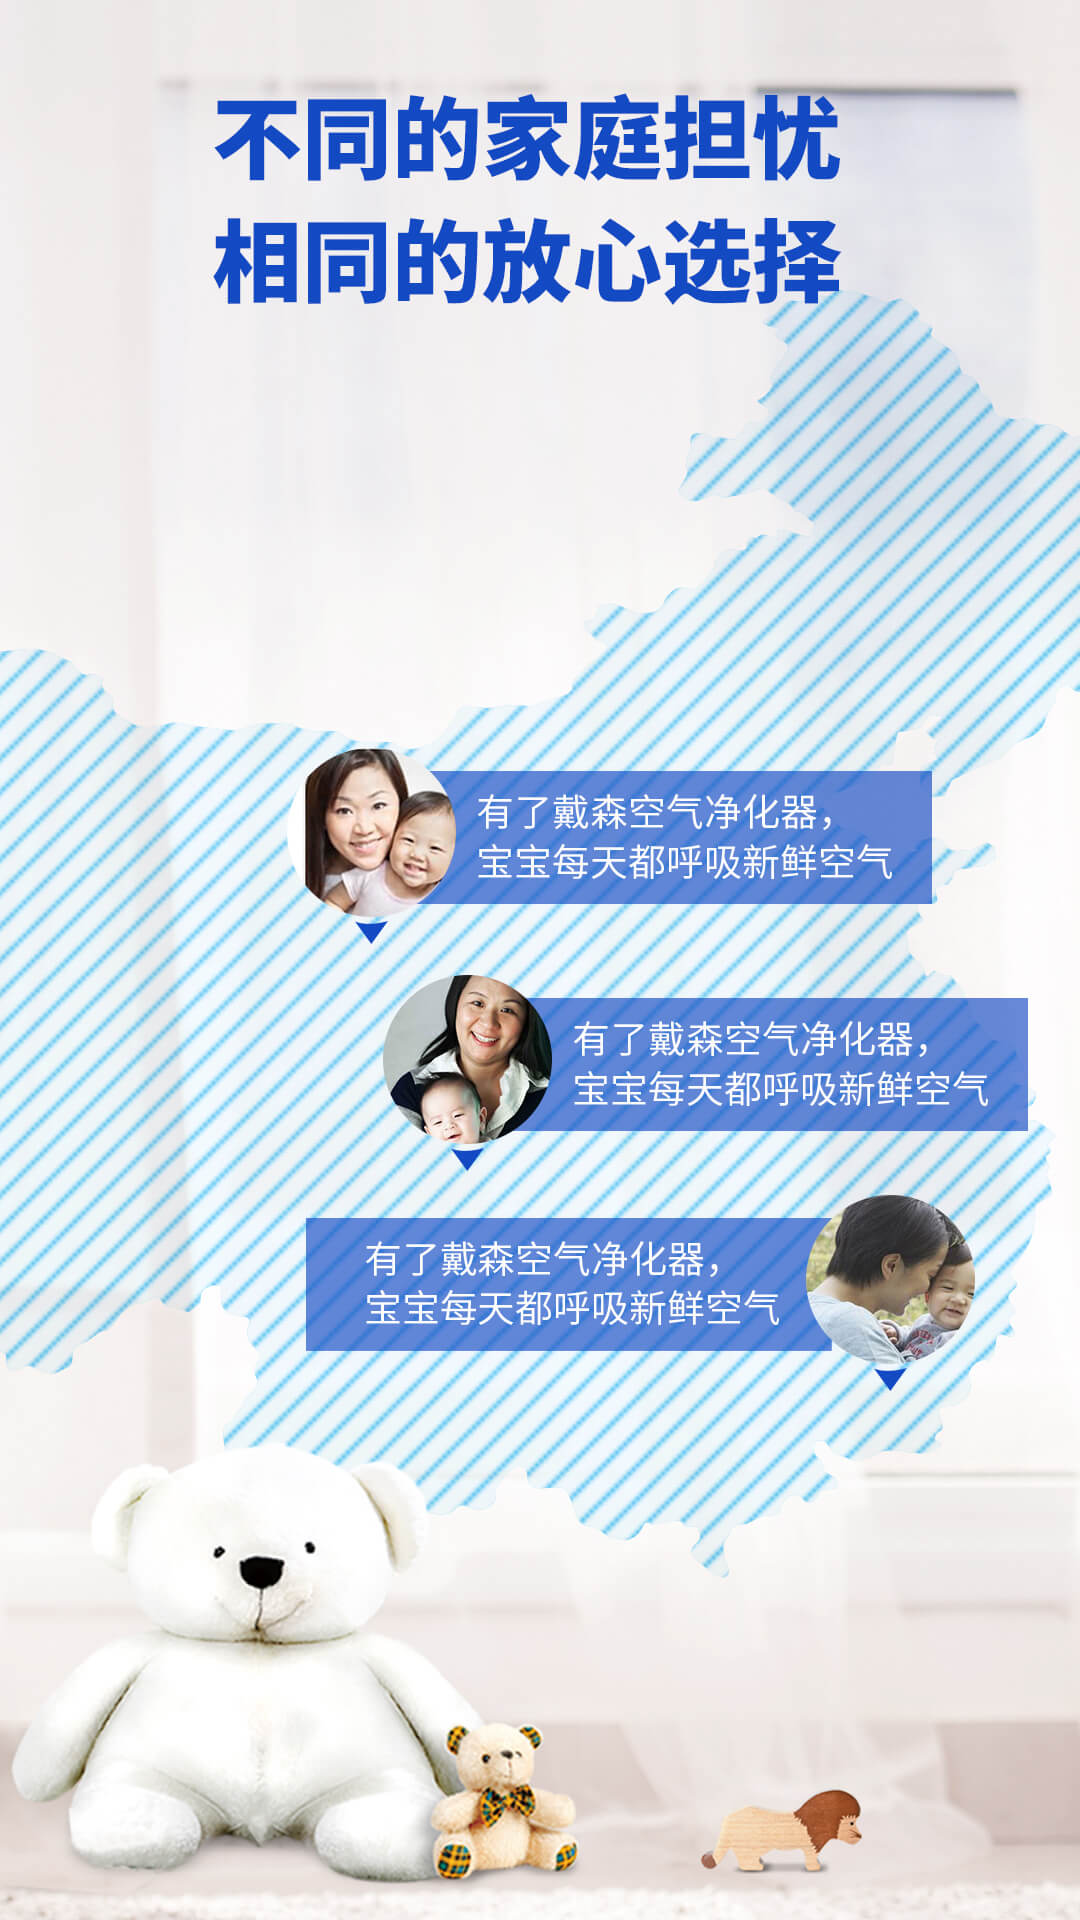
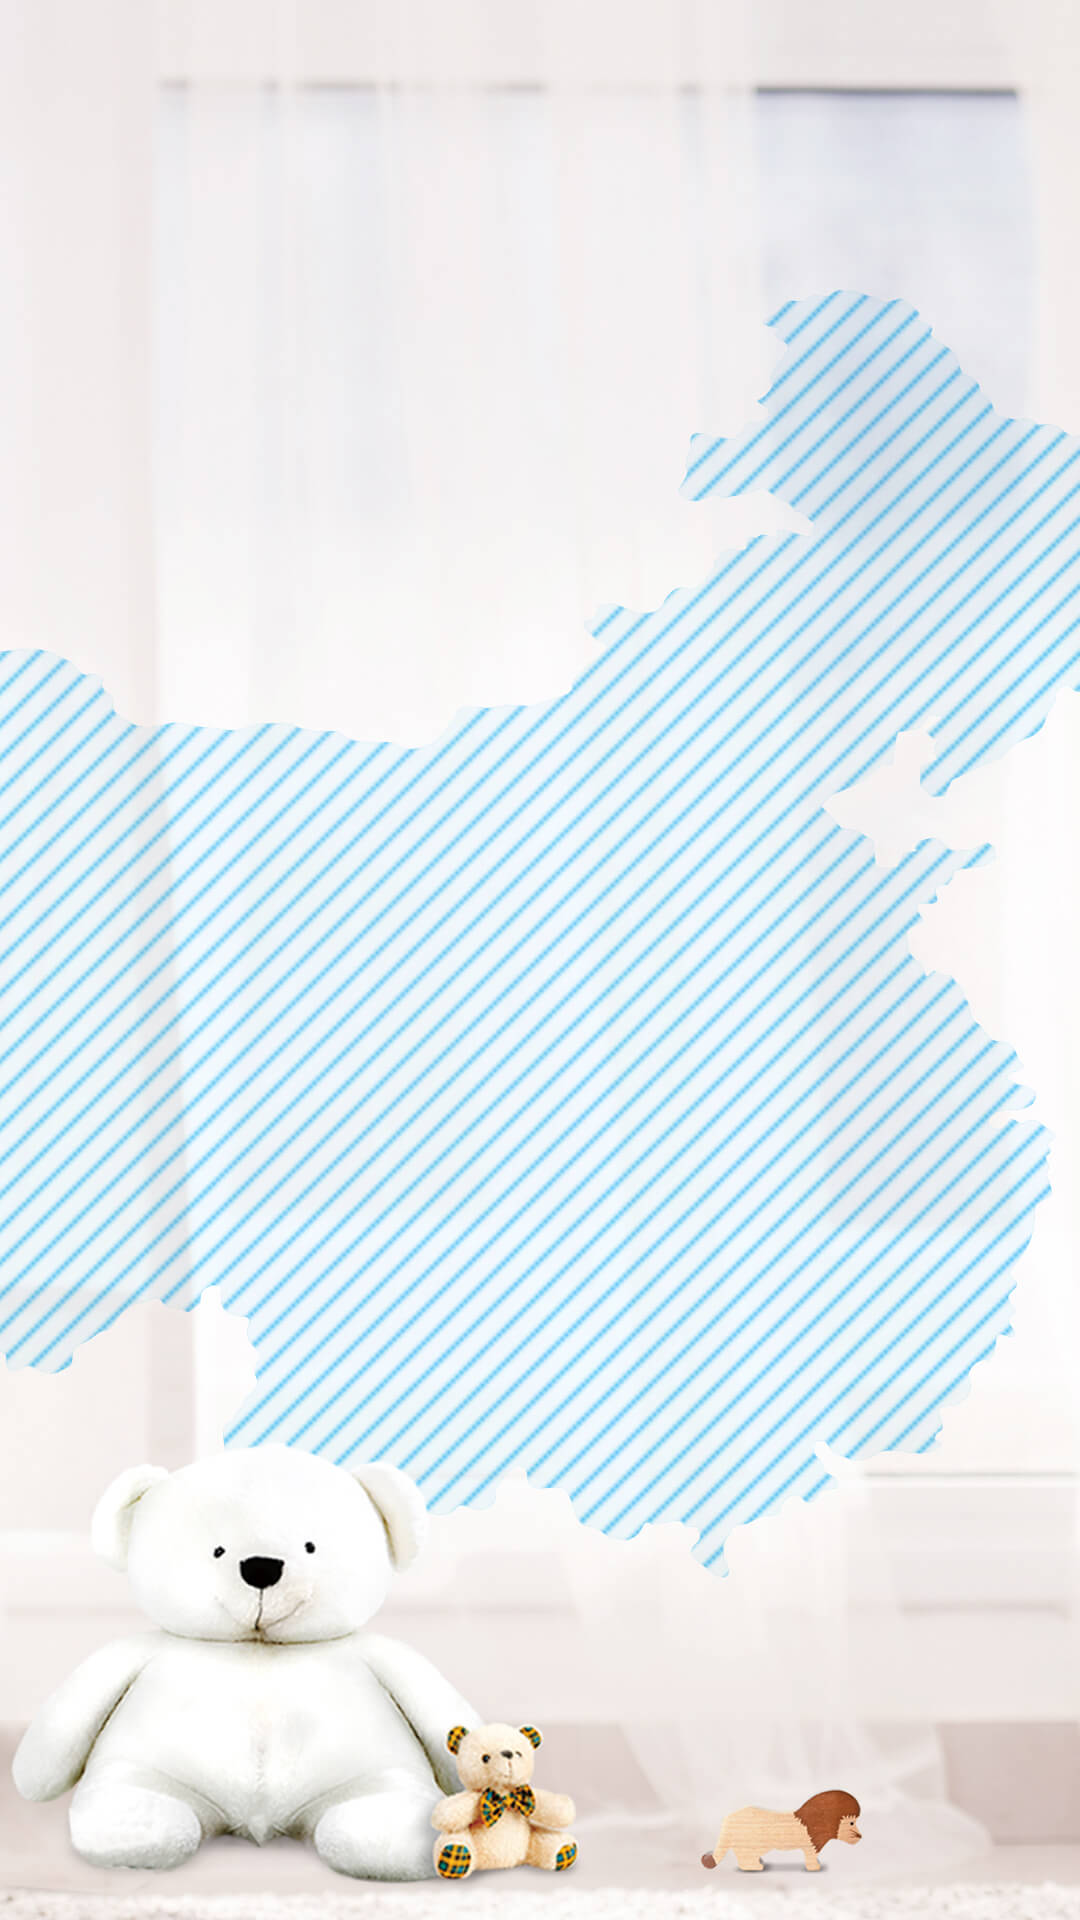
commit

Changed region(s): [[0.275, 0.5, 0.9778, 0.7188], [0.1833, 0.0312, 0.7944, 0.1562], [0.275, 0.375, 0.8861, 0.5]]

diff --git a/src/components/pageTwo.vue b/src/components/pageTwo.vue
@@ -1,5 +1,8 @@
 <template>
   <div class="pageTwo">
+		<img src="./f1.png" class="f1">
+		<img src="./f2.png" class="f2">
+		<img src="./2-bottom.png" class="bottom">
 		<div class="box1" @click="jump(1)"></div>
 		<div class="box2" @click="jump(2)"></div>
 		<div class="box3" @click="jump(3)"></div>
@@ -25,44 +28,64 @@ export default {
 .pageTwo{
 	position: relative;
 	display: flex;
-	// height: 100%;
-	// width: 100%;
-  // height: 100%;
-	// min-height: 9.8rem;
-  // max-height: 11.5rem;
-  // max-width: 6.4rem;
 	width: 100vw;
 	height: 100vh;
-	background: url('2.jpg') center center no-repeat;
+	background: url('3.jpg') top center no-repeat;
 	background-size: cover;
 	overflow: hidden;
+	img.f1{
+		display: inline-block;
+		position: absolute;
+		width: 48vw;
+		left: 26vw;
+		top: 4vh;
+	}
+	img.f2{
+		display: inline-block;
+		position: absolute;
+		width: 78vw;
+		left: 11vw;
+		top: 20vh;
+	}
+	img.bottom{
+		display: inline-block;
+		position: absolute;
+		width: 96vw;
+		bottom: 1.5%;
+		z-index: 1;
+		left: 2vw;
+	}
 	.box1{
 		position: absolute;
-		top: 35%;
+		bottom: 35%;
 		left: 0;
 		width: 53%;
 		height: 29%;
+		z-index: 2;
 	}
 	.box2{
 		position: absolute;
-		top: 35%;
+		bottom: 35%;
     right: 0;
     width: 45%;
     height: 29%;
+		z-index: 2;
 	}
 	.box3{
 		position: absolute;
-		top: 35%;
+		bottom: 5%;
 		left: 0;
 		width: 43%;
-		height: 29%;
+		height: 31%;
+		z-index: 2;
 	}
 	.box4{
 		position: absolute;
-		top: 64%;
+		bottom: 5%;
     right: 0;
     width: 55%;
-    height: 30%;
+    height: 31%;
+		z-index: 2;
 	}
 }
 </style>

diff --git a/src/components/pageFour.vue b/src/components/pageFour.vue
@@ -1,5 +1,10 @@
 <template>
-  <div class="pageFour"></div>
+  <div class="pageFour">
+		<img src="./f3.png" class="f3">
+		<img src="./m1.png" class="m1">
+		<img src="./m2.png" class="m2">
+		<img src="./m3.png" class="m3">
+	</div>
 </template>
 
 <script type="text/ecmascript-6">
@@ -12,16 +17,51 @@ export default {
 .pageFour{
 	position: relative;
 	display: flex;
-	// height: 100%;
-	// width: 100%;
-  // height: 100%;
-	// min-height: 9.8rem;
-  // max-height: 11.5rem;
-  // max-width: 6.4rem;
 	width: 100vw;
 	height: 100vh;
 	background: url('4.jpg') center center no-repeat;
 	background-size: cover;
 	overflow: hidden;
+	img.f3{
+		display: inline-block;
+		position: absolute;
+		width: 58vw;
+		left: 17.75vw;
+		top: 5%;
+	}
+	img.m1{
+		display: inline-block;
+		position: absolute;
+		width: 63vw;
+		left: 27%;
+    top: 63%;
+		opacity: 0;
+		animation:animation 5s infinite;
+		animation-delay:1.5s;
+	}
+	img.m2{
+		display: inline-block;
+		position: absolute;
+		width: 63vw;
+		left: 32%;
+    top: 50%;
+		opacity: 0;
+		animation:animation 5s infinite;
+		animation-delay:3s;
+	}
+	img.m3{
+		display: inline-block;
+		position: absolute;
+		width: 63vw;
+		left: 24%;
+    top: 37%;
+		animation:animation 5s infinite;
+	}
+	@keyframes animation
+	{
+		0% {opacity:0;}
+		50% {opacity:1;}
+		100% {opacity:0;}
+	}
 }
 </style>

diff --git a/src/components/pageThree.vue b/src/components/pageThree.vue
@@ -1,5 +1,6 @@
 <template>
   <div class="pageThree">
+		<img src="./3-bottom.png" width="100%">
 		<div class="box5" @click="jump(5)"></div>
 		<div class="box6" @click="jump(6)"></div>
 		<div class="box7" @click="jump(7)"></div>
@@ -24,23 +25,25 @@ export default {
 .pageThree{
 	position: relative;
 	display: flex;
-	// height: 100%;
-	// width: 100%;
-  // height: 100%;
-	// min-height: 9.8rem;
-  // max-height: 11.5rem;
-  // max-width: 6.4rem;
 	width: 100vw;
 	height: 100vh;
 	background: url('3.jpg') center center no-repeat;
 	background-size: cover;
 	overflow: hidden;
+	img{
+		display: inline-block;
+		position: absolute;
+		height: 100vh;
+		bottom: 2%;
+		z-index: 1;
+	}
 	.box5{
 		position: absolute;
 		top: 4%;
     left: 0;
     width: 100%;
     height: 30%;
+		z-index: 2;
 	}
 	.box6{
 		position: absolute;
@@ -48,6 +51,7 @@ export default {
     left: 0;
     width: 33%;
     height: 29%;
+		z-index: 2;
 	}
 	.box7{
 		position: absolute;
@@ -62,6 +66,7 @@ export default {
 		right: 0;
 		width: 33%;
 		height: 29%;
+		z-index: 2;
 	}
 	.box9{
 		position: absolute;
@@ -76,6 +81,7 @@ export default {
     right: 0;
     width: 63%;
     height: 30%;
+		z-index: 2;
 	}
 }
 </style>

diff --git a/src/components/pageOne.vue b/src/components/pageOne.vue
@@ -1,9 +1,10 @@
 <template>
   <div class="pageOne">
-		<video src="../../static/1.mp4" autoplay controls preload></video>
+		<img src="./1-top.jpg" width="100%">
+		<video src="../../static/1.mp4" controls preload poster="../../static/img/video-loadpic.png"></video>
+		<img src="./1-bottom.jpg" width="100%">
 	</div>
 </template>
-
 <script type="text/ecmascript-6">
 export default {
   name: 'pageOne'
@@ -14,22 +15,26 @@ export default {
 <style scoped lang="stylus" type="stylesheet/stylus">
 .pageOne{
 	position: relative;
-	// height: 100%;
-	// width: 100%;
-  // height: 100%;
-	// min-height: 9.8rem;
-  // max-height: 11.5rem;
-  // max-width: 6.4rem;
 	width: 100vw;
 	height: 100vh;
-	background: url('1.jpg') center center no-repeat;
-	background-size: cover;
 	overflow: hidden;
+	img{
+		position: absolute;
+		display:inline-block;
+		z-index: 1;
+		&:first-child{
+			top: 0;
+		}
+		&:last-child{
+			bottom: 0;
+		}
+	}
 	video{
+		display:inline-block;
 		top: 54%;
 		z-index: 2;
 		position: absolute;
-		width: 100%;
+		width: 100vw;
 	}
 }
 </style>

diff --git a/src/components/pageFive.vue b/src/components/pageFive.vue
@@ -1,5 +1,8 @@
 <template>
-  <div class="pageFive"></div>
+  <div class="pageFive">
+		<img src="./f4.png" class="f4">
+		<img src="./f5.png" class="f5">
+	</div>
 </template>
 
 <script type="text/ecmascript-6">
@@ -12,16 +15,24 @@ export default {
 .pageFive{
 	position: relative;
 	display: flex;
-	// height: 100%;
-	// width: 100%;
-  // height: 100%;
-	// min-height: 9.8rem;
-  // max-height: 11.5rem;
-  // max-width: 6.4rem;
 	width: 100vw;
 	height: 100vh;
 	background: url('5.jpg') center center no-repeat;
 	background-size: cover;
 	overflow: hidden;
+	img.f4{
+		display: inline-block;
+		position: absolute;
+		width: 52vw;
+		left: 24vw;
+    top: 1%;
+	}
+	img.f5{
+		display: inline-block;
+		position: absolute;
+		width: 92.6vw;
+		left: 3.7vw;
+    bottom: 2%;
+	}
 }
 </style>

diff --git a/src/main.js b/src/main.js
@@ -3,10 +3,11 @@
 import Vue from 'vue';
 import App from './App';
 import router from './router';
-import '../static/js/rem';
+// import '../static/js/rem';
 import '../static/css/reset.css';
 import '../static/css/swiper.min.css';
-
+import FastClick from 'fastclick'
+FastClick.attach(document.body);
 Vue.config.productionTip = false
 
 /* eslint-disable no-new */

diff --git a/build/webpack.base.conf.js b/build/webpack.base.conf.js
@@ -43,7 +43,7 @@ module.exports = {
         test: /\.(png|jpe?g|gif|svg)(\?.*)?$/,
         loader: 'url-loader',
         options: {
-          limit: 10000,
+          // limit: 10000,
           name: utils.assetsPath('img/[name].[hash:7].[ext]')
         }
       },
